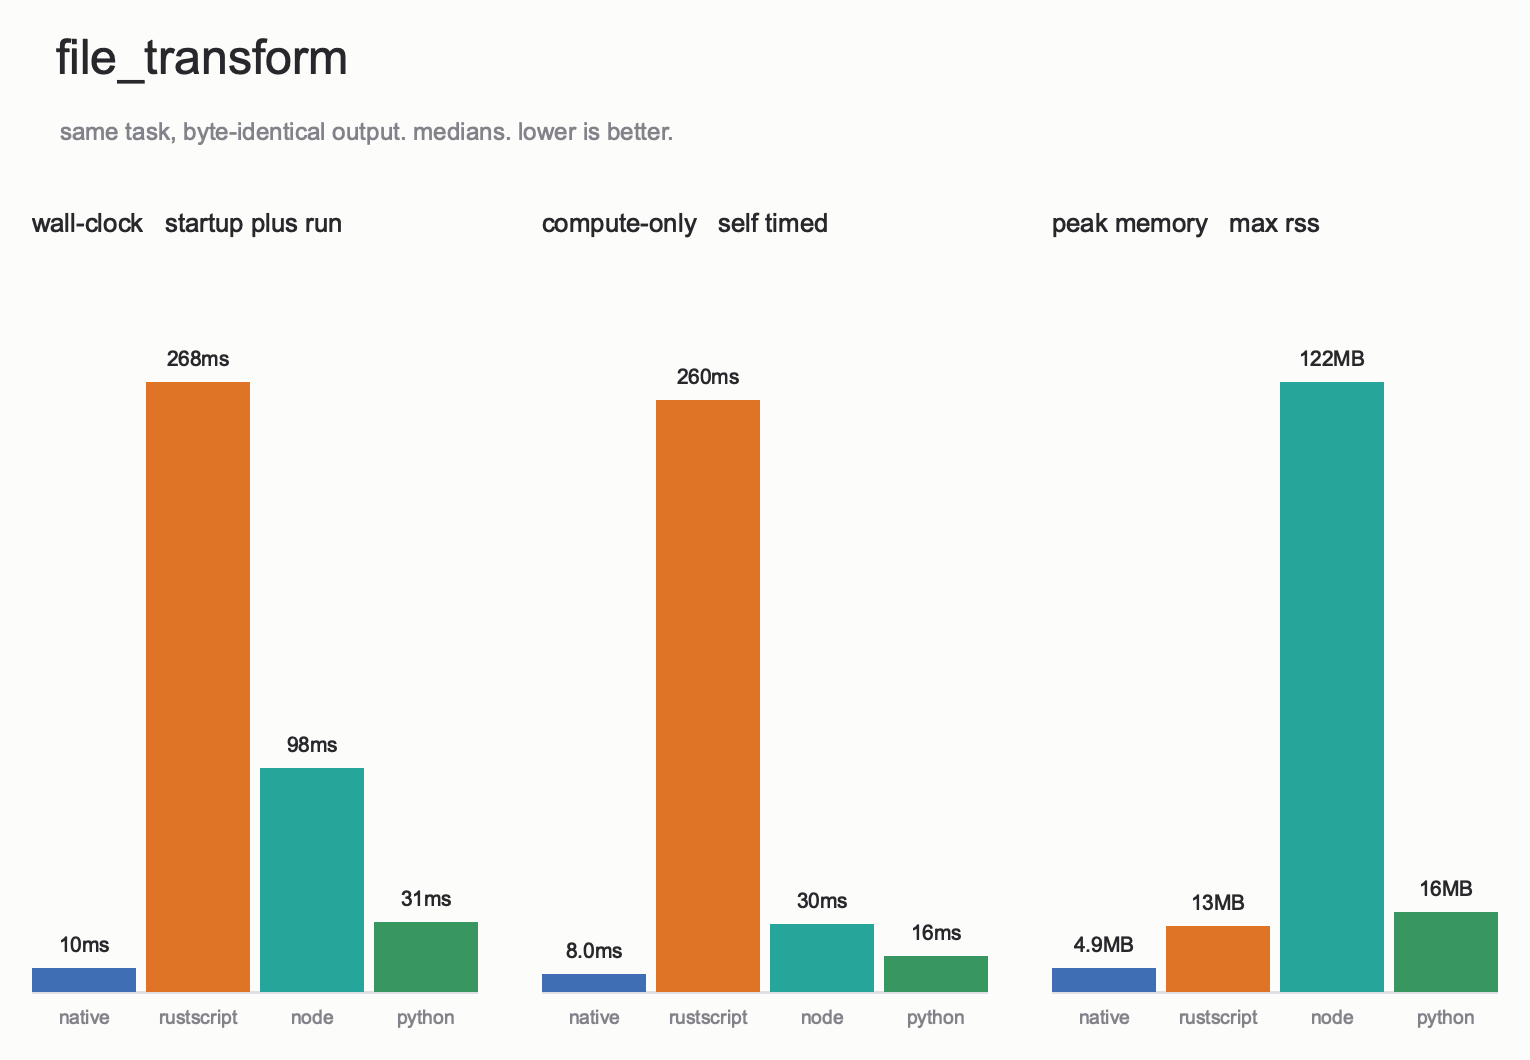
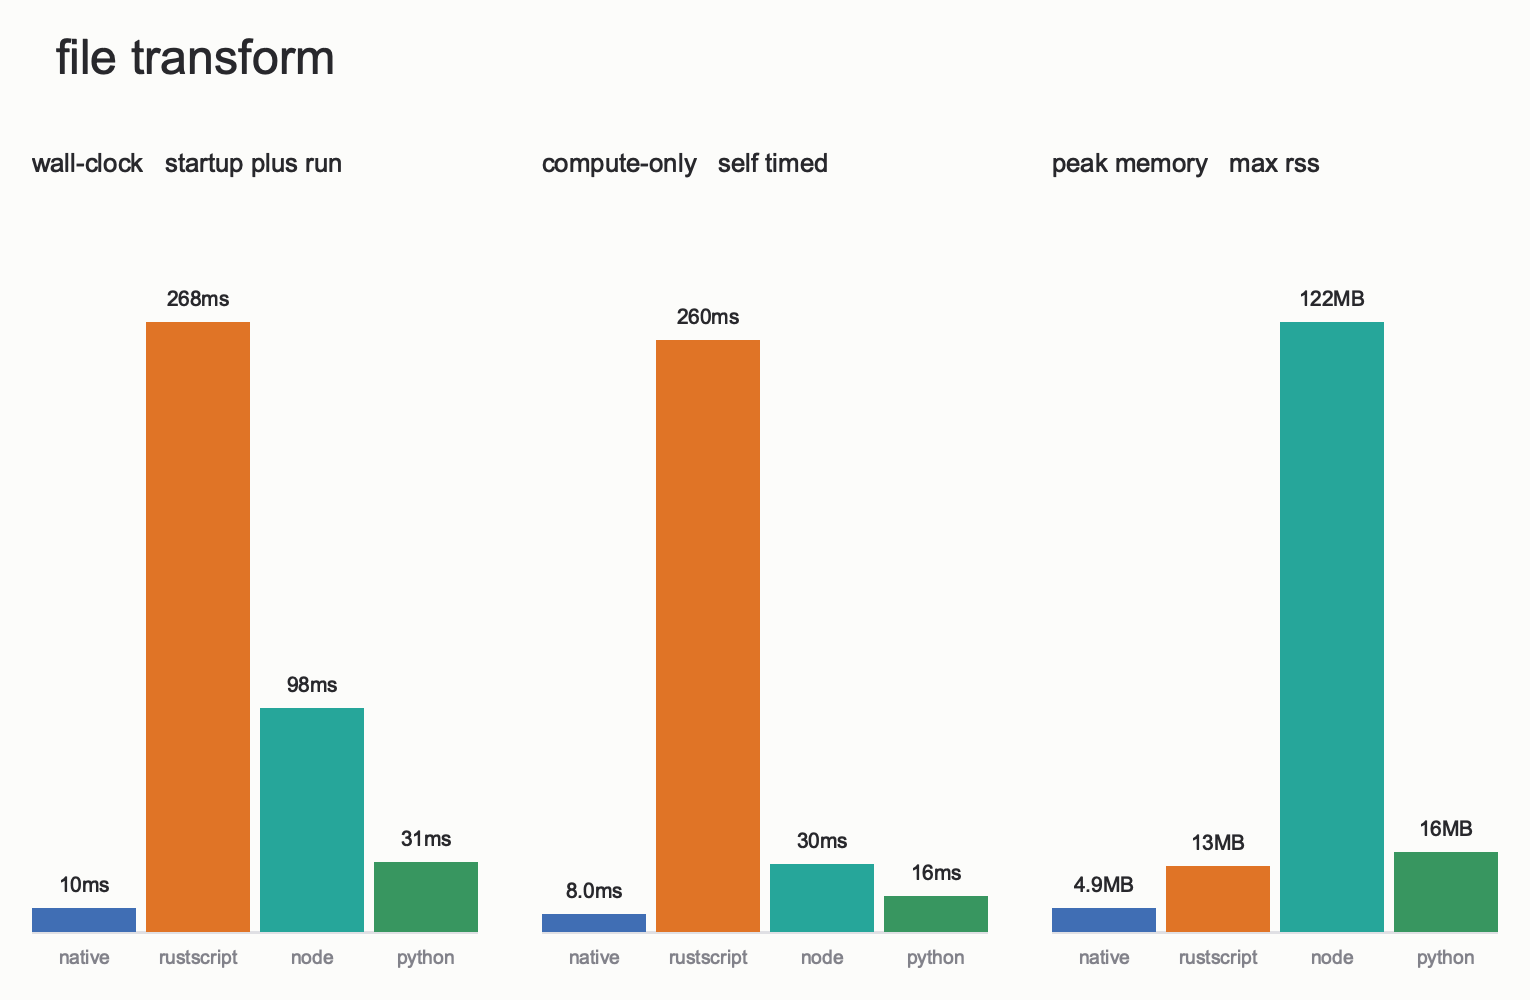
spell out chart titles and drop the subtitle line

diff --git a/bench/src/bin/chart.rs b/bench/src/bin/chart.rs
@@ -50,6 +50,37 @@ fn color_for(lang: &str) -> RGBColor {
     }
 }
 
+/// The chart title: the case name spelled out so the task is obvious.
+/// File names keep the short case name from `results.json`.
+fn display_title(name: &str) -> &'static str {
+    match name {
+        "hello" => "hello world",
+        "big_script" => "big script startup",
+        "multifile_startup" => "multi-file startup",
+        "fib" => "recursive fibonacci",
+        "sieve" => "sieve of eratosthenes",
+        "mandelbrot" => "mandelbrot",
+        "collatz" => "collatz",
+        "binary_trees" => "binary trees",
+        "string_builder" => "string building",
+        "higher_order" => "map filter fold",
+        "sort" => "comparator sort",
+        "sort_key" => "sort by key",
+        "hashmap_int" => "int hashmap",
+        "nbody" => "n-body",
+        "json_serialize" => "json serialize",
+        "stdout_lines" => "stdout lines",
+        "word_count" => "word count",
+        "json" => "json parse",
+        "regex" => "regex",
+        "file_transform" => "file transform",
+        "process_spawn" => "process spawn",
+        "async_tasks" => "async tasks",
+        "http_local" => "local http",
+        _ => "automation script",
+    }
+}
+
 /// One bar panel, values in the unit `fmt` renders.
 struct Panel {
     title: String,
@@ -151,7 +182,7 @@ fn render_case(out: &Path, c: &CaseResult) -> Result<()> {
     let panels = case_panels(c);
     let bars = i32::try_from(panels.first().map_or(4, |p| p.bars.len())).expect("bars fit i32");
     let w = i32::try_from(panels.len()).expect("panel count fits i32") * panel_width(bars);
-    let h = 530i32;
+    let h = 500i32;
     let dims = (
         u32::try_from(s(w)).expect("chart width fits u32"),
         u32::try_from(s(h)).expect("chart height fits u32"),
@@ -159,17 +190,11 @@ fn render_case(out: &Path, c: &CaseResult) -> Result<()> {
     let area = BitMapBackend::new(out, dims).into_drawing_area();
     area.fill(&BG)?;
 
-    let title = c.name.clone();
-    let (head, body) = area.split_vertically(s(90));
+    let (head, body) = area.split_vertically(s(60));
     head.draw(&Text::new(
-        title,
+        display_title(&c.name),
         (s(28), s(18)),
         ("sans-serif", s(30)).into_font().color(&INK),
-    ))?;
-    head.draw(&Text::new(
-        "same task, byte-identical output. medians. lower is better.",
-        (s(30), s(60)),
-        ("sans-serif", s(15)).into_font().color(&MUTED),
     ))?;
 
     let cols = body.split_evenly((1, panels.len()));
